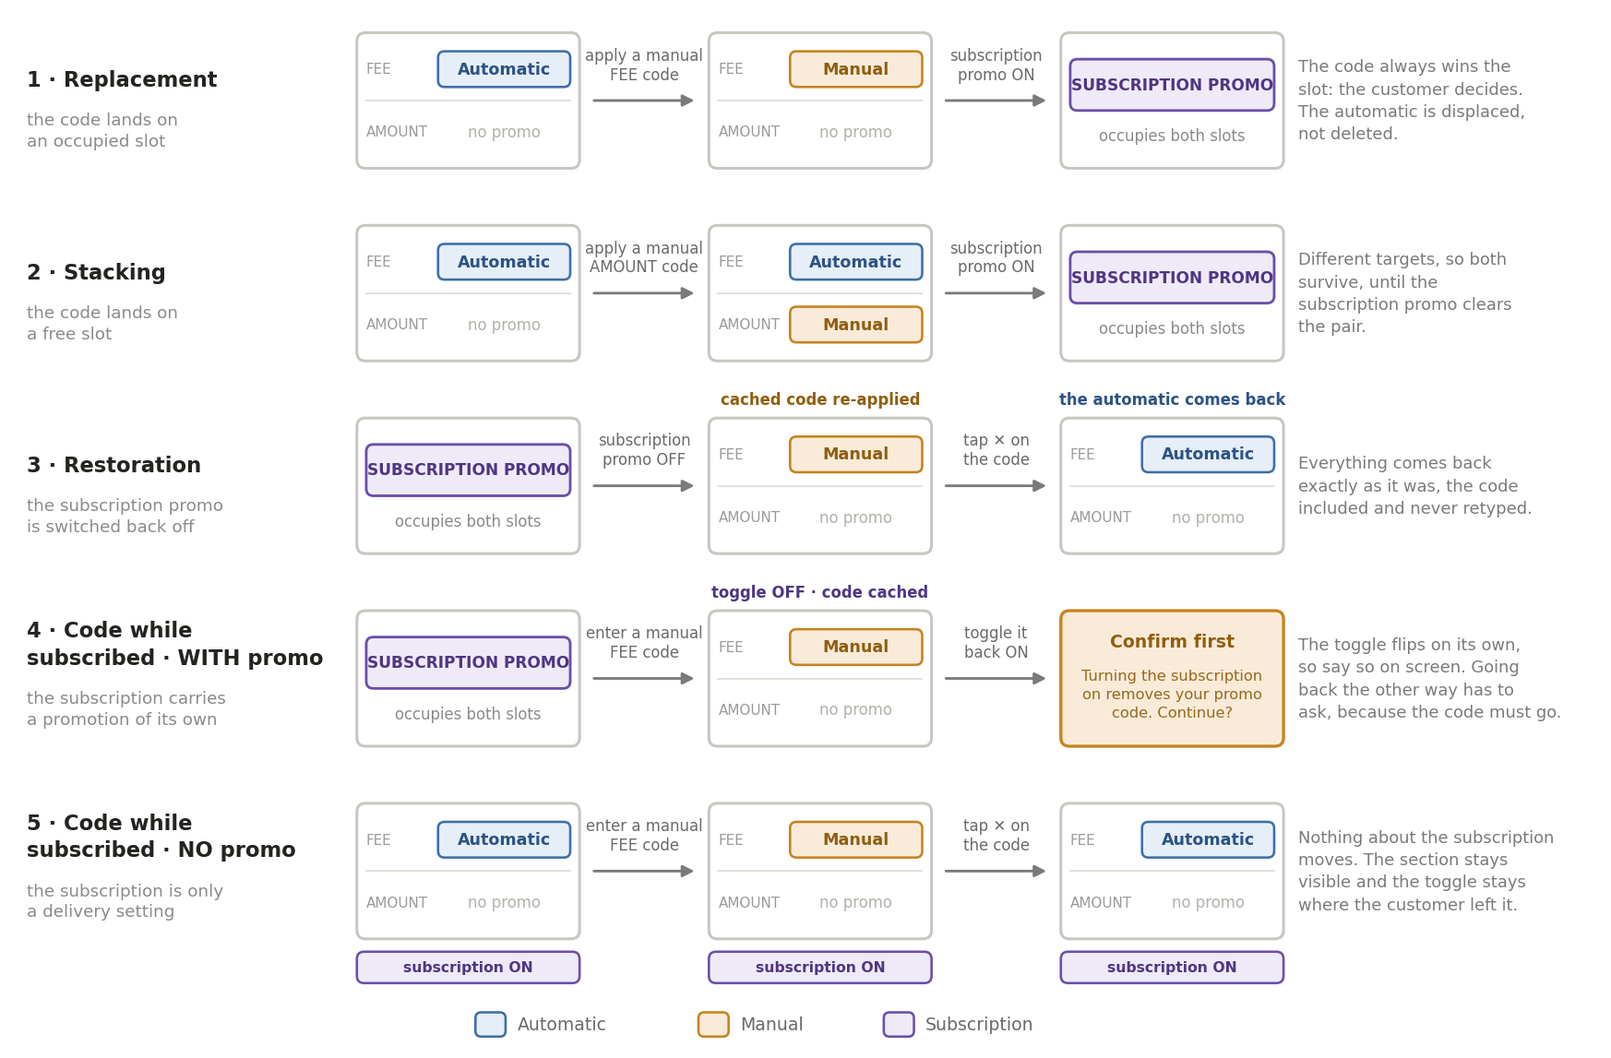
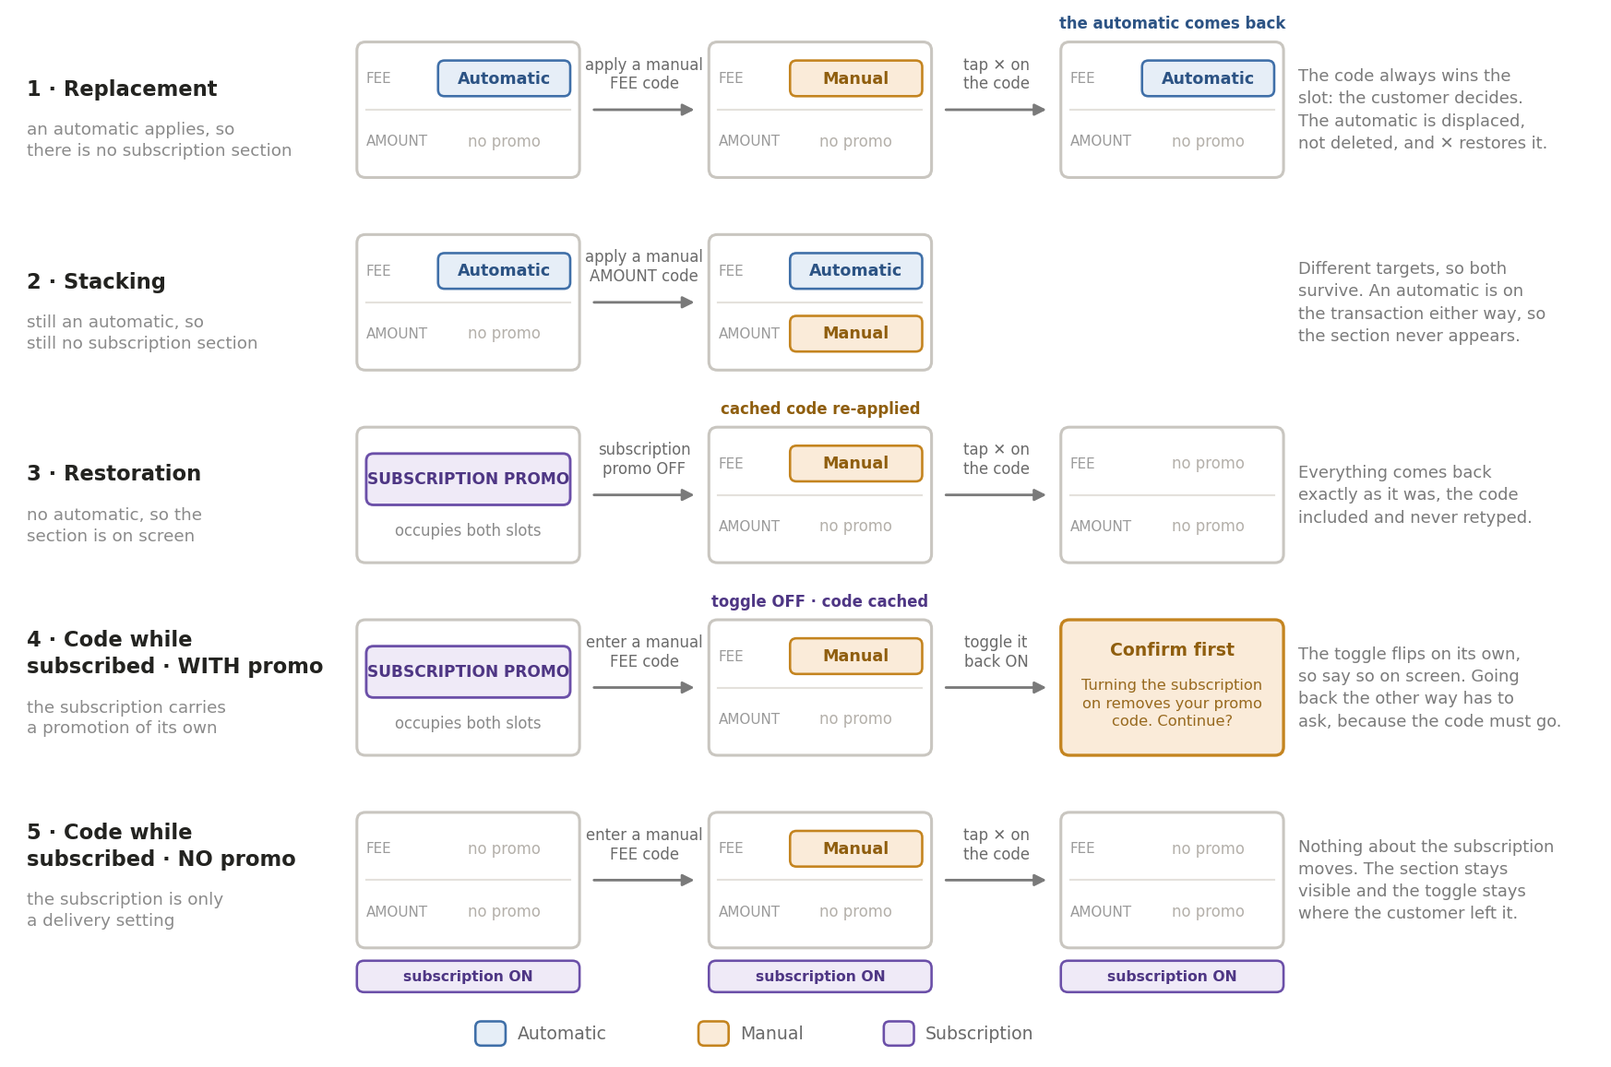
Gate the whole subscription section behind the instant automatic promo
Correction from Joao: the section is not "never hidden". An instant
automatic promotion on the transaction hides it outright, because the two
cannot stack and the automatic is the one we apply. Confirmed today that
this holds whether or not the subscription would have carried a promotion
of its own, and that the gate is evaluated once on load: displacing the
automatic with a manual code does not bring the section back.

That reaches further than a wording fix. State "A · Automatic only" could
never have reached the subscription state, so the state model now opens on
the gate and its two outcomes, and the states past it start from an empty
pair of slots rather than from an automatic. Journeys 1 and 2 lose their
"subscription promo ON" third step, which was unreachable, and instead
finish the automatic-versus-manual story with the ✕ restore. Journey 5
starts from no promotion rather than from an automatic.

In the matrix, automatic against subscription flips from "subscription
only" to "automatic wins", and subscription against an empty slot is a ✓
rather than a ✗, since nothing is being refused there.

diff --git a/generate_promo_interaction_diagrams.py b/generate_promo_interaction_diagrams.py
@@ -2,7 +2,8 @@
 """
 Two figures for the IMTU promotion-interaction reference (design team).
 
-  1. promo_interaction_states.png    - the three states and every transition
+  1. promo_interaction_states.png    - the gate, then three states and every
+                                       transition on the far side of it
   2. promo_interaction_journeys.png  - five worked journeys
 
 The mental model both figures encode: a transaction has exactly two promotion
@@ -12,6 +13,13 @@ two halves: one that carries its own promotion is not a slot-filler at all, it
 takes over the whole transaction and remembers what it displaced; one with no
 promotion attached is only a delivery setting and leaves both slots alone.
 
+Everything about the subscription sits behind a gate. An instant automatic
+promotion anywhere on the transaction hides the subscription section outright,
+because the two cannot stack and the automatic wins. The gate is evaluated
+once, when the transaction loads, so the section does not come back even when
+a manual code later displaces the automatic. Journeys 1 and 2 therefore live
+on the hidden side of the gate and never show a subscription at all.
+
 Product decisions of 31 Aug 2026 folded in:
   - one manual code per transaction (never two)
   - turning a subscription promotion off restores the previous state IN FULL,
@@ -20,12 +28,13 @@ Product decisions of 31 Aug 2026 folded in:
   - manual always outranks automatic, the customer decides, no warning
 
 Product decisions of 1 Sep 2026 (DCS-5299 comment thread) folded in:
-  - the subscription section is never hidden, only the toggle moves
+  - a manual code never hides the subscription section, only the toggle moves
   - with a subscription promotion, applying a manual code toggles the
     subscription OFF; removing the code returns the toggle to its previous
     state; toggling back ON asks for confirmation because the code must go
   - the manual code is cached, so restoring it never means retyping
   - with no subscription promotion, a manual code changes nothing at all
+  - an instant automatic hides the section entirely, decided once on load
 
 Colour language is fixed and must match the doc:
   Automatic = blue      Manual = amber      Subscription = violet
@@ -133,31 +142,70 @@ def statecard(ax, cx, cy, w, h, title, slots, foot, style):
             fontsize=7.2, color="#8A8A8A", zorder=5)
 
 
+def gatebox(ax, cx, cy, w, h, verdict, body, style):
+    ax.add_patch(FancyBboxPatch(
+        (cx - w / 2, cy - h / 2), w, h,
+        boxstyle="round,pad=0,rounding_size=0.14", linewidth=1.5,
+        facecolor=style["fill"], edgecolor=style["edge"], zorder=3))
+    ax.text(cx, cy + h / 2 - 0.40, verdict, ha="center", va="center",
+            fontsize=9.2, fontweight="bold", color=style["text"], zorder=5)
+    ax.text(cx, cy - 0.30, body, ha="center", va="center",
+            fontsize=7.6, color=style["text"], alpha=0.92, zorder=5,
+            linespacing=1.55)
+
+
 def fig_flow():
-    H = 12.2
+    H = 12.6
     fig, ax = canvas(H)
 
-    yt = 10.4                     # the two "normal" states sit on this line
+    # The gate decides whether any of this is on screen at all.
+    ax.text(XMAX / 2, 12.1,
+            "First, the gate: does an instant automatic promotion apply to this "
+            "transaction?",
+            ha="center", va="center", fontsize=10.2, fontweight="bold",
+            color="#232320", zorder=5)
+
+    gw, gy, gh = 9.9, 10.85, 2.15
+    gatebox(ax, 5.8, gy, gw, gh, "YES · no subscription section",
+            "The two cannot stack and the automatic wins, so the section\n"
+            "is not rendered. Decided once on load: nothing the customer\n"
+            "types afterwards brings it back. Manual codes still work on\n"
+            "the slots, and ✕ still restores the automatic.", RED)
+    gatebox(ax, 16.2, gy, gw, gh, "NO · the section is rendered",
+            "Everything below applies: the three states, the toggle,\n"
+            "and the promo-code interactions. No automatic is on the\n"
+            "transaction, so both slots start empty and the customer\n"
+            "can subscribe.", VIOLET)
+
+    yt = 8.0                      # the two "normal" states sit on this line
     ax_, bx = 5.6, 16.4
-    cw, ch = 6.8, 2.7
+    cw, ch = 6.8, 2.5
     a_bot = b_bot = yt - ch / 2
 
-    statecard(ax, ax_, yt, cw, ch, "A · Automatic only",
-              [("FEE", "Automatic", BLUE), ("AMOUNT", "Automatic", BLUE)],
-              "the default · either slot may be empty", BLUE)
+    # The NO branch lands on A: no automatic means both slots start empty.
+    ax.plot([11.25, 11.25], [gy - gh / 2, 9.55], color=ARROW, linewidth=1.2,
+            zorder=2)
+    ax.plot([11.25, ax_], [9.55, 9.55], color=ARROW, linewidth=1.2, zorder=2)
+    ax.add_patch(FancyArrowPatch(
+        (ax_, 9.55), (ax_, yt + ch / 2), arrowstyle="-|>", mutation_scale=11,
+        linewidth=1.2, color=ARROW, zorder=2))
+
+    statecard(ax, ax_, yt, cw, ch, "A · No promotion",
+              [("FEE", None, GRAY), ("AMOUNT", None, GRAY)],
+              "the default here · the subscription section is shown", GRAY)
 
     statecard(ax, bx, yt, cw, ch, "B · Manual code applied",
-              [("FEE", "Manual", AMBER), ("AMOUNT", "Automatic", BLUE)],
-              "the code takes one slot · the other keeps its automatic", AMBER)
+              [("FEE", "Manual", AMBER), ("AMOUNT", None, GRAY)],
+              "the code takes one slot · the other stays empty", AMBER)
 
     # A <-> B
-    arrow(ax, (ax_ + cw / 2, yt + 0.55), (bx - cw / 2, yt + 0.55),
-          label="enter a promo code", ldy=0.38)
-    arrow(ax, (bx - cw / 2, yt - 0.55), (ax_ + cw / 2, yt - 0.55),
-          label="tap ✕ to remove it,\nthe automatic returns", ldy=-0.52)
+    arrow(ax, (ax_ + cw / 2, yt + 0.50), (bx - cw / 2, yt + 0.50),
+          label="enter a promo code", ldy=0.36)
+    arrow(ax, (bx - cw / 2, yt - 0.50), (ax_ + cw / 2, yt - 0.50),
+          label="tap ✕ to remove it", ldy=-0.40)
 
     # C, spanning underneath both
-    cx_c, cy_c, cwc, chc = 10.4, 5.2, 12.6, 2.5
+    cx_c, cy_c, cwc, chc = 10.4, 3.0, 12.6, 2.5
     statecard(ax, cx_c, cy_c, cwc, chc, "C · Subscription promotion",
               [("SUBSCRIPTION PROMO", VIOLET)],
               "both slots cleared · the previous state is remembered", VIOLET)
@@ -169,22 +217,22 @@ def fig_flow():
           label="subscription ON\nask first: the code goes", lpos=0.46)
 
     # C -> whichever state was active, restored in full
-    ax.plot([cx_c, cx_c], [c_top, 7.95], color=ARROW, linewidth=1.2,
+    ax.plot([cx_c, cx_c], [c_top, 5.55], color=ARROW, linewidth=1.2,
             linestyle=(0, (4, 3)), zorder=2)
-    ax.plot([7.2, 14.8], [7.95, 7.95], color=ARROW, linewidth=1.2,
+    ax.plot([7.2, 14.8], [5.55, 5.55], color=ARROW, linewidth=1.2,
             linestyle=(0, (4, 3)), zorder=2)
     for x in (7.2, 14.8):
         ax.add_patch(FancyArrowPatch(
-            (x, 7.95), (x, a_bot), arrowstyle="-|>", mutation_scale=11,
+            (x, 5.55), (x, a_bot), arrowstyle="-|>", mutation_scale=11,
             linewidth=1.2, color=ARROW, zorder=2, linestyle=(0, (4, 3))))
-    ax.text(11.0, 8.52,
+    ax.text(11.0, 6.12,
             "subscription OFF, the remembered state returns in full,\n"
             "the cached manual code re-applied without retyping",
             ha="center", va="center", fontsize=7.8, color="#6A6A6A", zorder=5,
             bbox=dict(boxstyle="round,pad=0.22", fc="white", ec="none", alpha=0.95))
 
     # the special exit: a code typed while a subscription promotion is on
-    nx, ny, nw, nh = 19.4, 5.2, 4.6, 2.5
+    nx, ny, nw, nh = 19.4, 3.0, 4.6, 2.5
     ax.add_patch(FancyBboxPatch(
         (nx - nw / 2, ny - nh / 2), nw, nh,
         boxstyle="round,pad=0,rounding_size=0.14", linewidth=1.4,
@@ -199,28 +247,9 @@ def fig_flow():
     arrow(ax, (cx_c + cwc / 2, ny), (nx - nw / 2, ny))
     arrow(ax, (nx, ny + nh / 2), (nx, b_bot))
 
-    # the other half of the model: a subscription with nothing attached to it
-    sy, sh = 2.15, 1.9
-    ax.add_patch(FancyBboxPatch(
-        (0.6, sy - sh / 2), XMAX - 1.2, sh,
-        boxstyle="round,pad=0,rounding_size=0.16", linewidth=1.5,
-        facecolor=VIOLET["fill"], edgecolor=VIOLET["edge"], zorder=3))
-    ax.text(XMAX / 2, sy + 0.52, "When the subscription carries NO promotion",
-            ha="center", va="center", fontsize=9.6, fontweight="bold",
-            color=VIOLET["text"], zorder=5)
-    ax.text(XMAX / 2, sy - 0.28,
-            "The toggle is a delivery setting, not a promotion. It fills no slot, "
-            "so states A and B above are untouched by it.\n"
-            "Adding a promo code changes nothing about the subscription, and "
-            "removing the code changes nothing either.\n"
-            "The section is never hidden and the toggle never moves.",
-            ha="center", va="center", fontsize=7.6, color=VIOLET["text"],
-            alpha=0.92, zorder=5, linespacing=1.6)
-
-    legend_chips(ax, 0.42,
-                 "One promotion per target · two automatics may coexist when one is "
-                 "on Fee and the other on Amount · never two manual codes · "
-                 "the subscription section is never hidden.")
+    legend_chips(ax, 0.95,
+                 "A manual code never hides the section, it only moves the toggle · "
+                 "only an instant automatic hides it, and only at load time.")
     return fig
 
 
@@ -318,34 +347,33 @@ def fig_examples():
     def step(cy, xa, xb, label):
         arrow(ax, (xa + gap, cy), (xb - gap, cy), label=label, ldy=0.50, lsize=7.0)
 
-    # --- 1. replacement -----------------------------------------------------
-    rowlabel(ax, ra, "1 · Replacement", "the code lands on\nan occupied slot")
+    # --- 1 and 2 sit on the hidden side of the gate: an automatic applies ---
+    rowlabel(ax, ra, "1 · Replacement",
+             "an automatic applies, so\nthere is no subscription section")
     slotcard(ax, x1, ra, fee="auto")
     step(ra, x1, x2, "apply a manual\nFEE code")
     slotcard(ax, x2, ra, fee="manual")
-    step(ra, x2, x3, "subscription\npromo ON")
-    slotcard(ax, x3, ra, sub=True)
-    note(ax, ra, "The code always wins the\nslot: the customer decides.\nThe automatic is displaced,\nnot deleted.")
+    step(ra, x2, x3, "tap ✕ on\nthe code")
+    slotcard(ax, x3, ra, fee="auto", tag="the automatic comes back", tagcol=BLUE)
+    note(ax, ra, "The code always wins the\nslot: the customer decides.\nThe automatic is displaced,\nnot deleted, and ✕ restores it.")
 
-    # --- 2. stacking --------------------------------------------------------
-    rowlabel(ax, rb, "2 · Stacking", "the code lands on\na free slot")
+    rowlabel(ax, rb, "2 · Stacking",
+             "still an automatic, so\nstill no subscription section")
     slotcard(ax, x1, rb, fee="auto")
     step(rb, x1, x2, "apply a manual\nAMOUNT code")
     slotcard(ax, x2, rb, fee="auto", amount="manual")
-    step(rb, x2, x3, "subscription\npromo ON")
-    slotcard(ax, x3, rb, sub=True)
-    note(ax, rb, "Different targets, so both\nsurvive, until the\nsubscription promo clears\nthe pair.")
+    note(ax, rb, "Different targets, so both\nsurvive. An automatic is on\nthe transaction either way, so\nthe section never appears.")
 
-    # --- 3. restoration -----------------------------------------------------
-    rowlabel(ax, rc, "3 · Restoration", "the subscription promo\nis switched back off")
+    # --- 3 to 5 sit on the visible side: no automatic on the transaction -----
+    rowlabel(ax, rc, "3 · Restoration",
+             "no automatic, so the\nsection is on screen")
     slotcard(ax, x1, rc, sub=True)
     step(rc, x1, x2, "subscription\npromo OFF")
     slotcard(ax, x2, rc, fee="manual", tag="cached code re-applied", tagcol=AMBER)
     step(rc, x2, x3, "tap ✕ on\nthe code")
-    slotcard(ax, x3, rc, fee="auto", tag="the automatic comes back", tagcol=BLUE)
+    slotcard(ax, x3, rc)
     note(ax, rc, "Everything comes back\nexactly as it was, the code\nincluded and never retyped.")
 
-    # --- 4. code while subscribed, WITH a subscription promotion ------------
     rowlabel(ax, rd, "4 · Code while\nsubscribed · WITH promo",
              "the subscription carries\na promotion of its own")
     slotcard(ax, x1, rd, sub=True)
@@ -357,14 +385,13 @@ def fig_examples():
               "Turning the subscription\non removes your promo\ncode. Continue?")
     note(ax, rd, "The toggle flips on its own,\nso say so on screen. Going\nback the other way has to\nask, because the code must go.")
 
-    # --- 5. code while subscribed, WITHOUT a subscription promotion ---------
     rowlabel(ax, re, "5 · Code while\nsubscribed · NO promo",
              "the subscription is only\na delivery setting")
-    slotcard(ax, x1, re, fee="auto", sub_tag="subscription ON")
+    slotcard(ax, x1, re, sub_tag="subscription ON")
     step(re, x1, x2, "enter a manual\nFEE code")
     slotcard(ax, x2, re, fee="manual", sub_tag="subscription ON")
     step(re, x2, x3, "tap ✕ on\nthe code")
-    slotcard(ax, x3, re, fee="auto", sub_tag="subscription ON")
+    slotcard(ax, x3, re, sub_tag="subscription ON")
     note(ax, re, "Nothing about the subscription\nmoves. The section stays\nvisible and the toggle stays\nwhere the customer left it.")
 
     legend_chips(ax, 0.25)

diff --git a/create_promo_interaction_onepager.py b/create_promo_interaction_onepager.py
@@ -9,11 +9,13 @@ to (fee, top-up amount), and what the customer should see at every transition.
 Page 1 is the model, the rules, and the state diagram. Page 2 is the full
 combination matrix, five worked journeys, and the screen implications.
 
-A subscription is read in two halves throughout: one that carries its own
-promotion is exclusive and takes the whole transaction; one with no promotion
-attached is only a delivery setting and leaves both slots alone. That split,
-and the rule that the subscription section is never hidden, come from the
-DCS-5299 comment thread of 1 Sep 2026.
+Everything about the subscription sits behind a gate: an instant automatic
+promotion on the transaction hides the section outright, because the two
+cannot stack and the automatic wins. Past the gate, a subscription is read in
+two halves: one that carries its own promotion is exclusive and takes the
+whole transaction; one with no promotion attached is only a delivery setting
+and leaves both slots alone. Both come from the DCS-5299 comment thread of
+1 Sep 2026.
 
 Figures come from generate_promo_interaction_diagrams.py and are served from
 the public GitHub repo - the Docs API fetches image URIs server-side and IDT
@@ -60,13 +62,13 @@ IMAGES = {
 
 MATRIX = [
     ["Fee ↓  /  Amount →", "Automatic", "Manual", "Subscription promo", "None"],
-    ["Automatic", "✓  both apply", "✓  both apply", "✗  subscription only",
+    ["Automatic", "✓  both apply", "✓  both apply", "✗  automatic wins",
      "✓  fee only"],
     ["Manual", "✓  both apply", "✗  one code only", "✗  subscription only",
      "✓  fee only"],
-    ["Subscription promo", "✗  subscription only", "✗  subscription only", "N/A",
-     "✗  subscription only"],
-    ["None", "✓  amount only", "✓  amount only", "✗  subscription only",
+    ["Subscription promo", "✗  automatic wins", "✗  subscription only", "N/A",
+     "✓  subscription only"],
+    ["None", "✓  amount only", "✓  amount only", "✓  subscription only",
      "·  no promotion"],
 ]
 
@@ -93,22 +95,23 @@ BLOCKS = [
             "Joao Tanaka  ·  Context: DCS-2846, DCS-5299"),
 
     ("h2", "The model"),
-    ("p", "Every IMTU transaction has exactly two places a promotion can land: the "
-          "fee and the top-up amount. Think of them as two slots, each holding at "
-          "most one promotion. Three kinds of promotion compete for those slots, and "
-          "they are colour-coded the same way everywhere on this page."),
+    ("p", "Every IMTU transaction has two places a promotion can land: the fee and "
+          "the top-up amount. Two slots, each holding at most one promotion. Three "
+          "kinds of promotion compete for them, colour-coded the same way "
+          "throughout."),
     ("b", ("Instant automatic",
            "applied by the system the moment the customer qualifies, with no action "
-           "from them. Blue.")),
+           "from them. Blue. Its presence is what closes the gate on the "
+           "subscription section.")),
     ("b", ("Manual",
            "a promo code the customer types in. Amber. At most one per "
            "transaction.")),
     ("b", ("Subscription",
-           "attached to turning a one-off top-up into a recurring one. Violet. Read "
-           "it in two halves. A subscription that carries its own promotion is not a "
-           "slot-filler: it takes the whole transaction. A subscription with no "
-           "promotion attached is only a delivery setting and leaves both slots "
-           "alone.")),
+           "attached to turning a one-off top-up into a recurring one. Violet. "
+           "Offered only when no instant automatic applies. Read it in two halves: "
+           "one that carries its own promotion is not a slot-filler, it takes the "
+           "whole transaction; one with no promotion attached is only a delivery "
+           "setting and leaves both slots alone.")),
 
     ("h2", "The rules"),
     ("p", "Six rules cover every case. The first two describe how the slots work; "
@@ -124,21 +127,21 @@ BLOCKS = [
     ("b", ("Manual outranks automatic",
            "a code always takes the slot, even when the automatic it displaces was "
            "worth more. The customer decides, and we do not warn them off it.")),
+    ("b", ("An instant automatic hides the subscription section",
+           "the two cannot stack and the automatic wins, so the section is not "
+           "rendered at all. The gate is checked once when the transaction loads "
+           "and never revisited, so the section does not come back even if a manual "
+           "code later displaces the automatic. A promo code never hides the "
+           "section; at most it moves the toggle.")),
     ("b", ("A subscription promotion is exclusive, and fully reversible",
            "turning it on clears both slots and remembers what was there. Turning it "
            "off puts all of it back, the cached manual code included. A subscription "
            "with no promotion is exempt: the slots do not move.")),
-    ("b", ("The subscription section is never hidden",
-           "whatever the customer does with a promo code, the section stays on "
-           "screen. Only the toggle moves, and only when a subscription promotion is "
-           "in play.")),
 
-    ("h2", "The three states, and every way to move between them"),
-    ("p", "Three states, six transitions, and each transition is a moment the "
-          "customer sees something change. Two are not symmetrical: removing a code "
-          "with ✕ brings back the automatic underneath it, and typing a code while a "
-          "subscription promotion is on switches the subscription off on the "
-          "customer's behalf."),
+    ("h2", "The gate, and the three states beyond it"),
+    ("p", "An instant automatic ends the story early: no section, nothing to design. "
+          "On every other transaction there are three states and six transitions, "
+          "each one a moment the customer sees something change."),
     ("img", "states"),
 
     ("pagebreak", ""),
@@ -147,28 +150,32 @@ BLOCKS = [
     ("table", "MATRIX"),
     ("p", "Read a cell as one transaction holding both promotions: the row is what "
           "sits on the fee, the column what sits on the top-up amount. Subscription "
-          "here means one that carries a promotion; a subscription with no promotion "
-          "occupies no slot and so does not appear in this grid at all. Every "
-          "combination is decided, and nothing here is open."),
+          "here means one that carries a promotion. Where it meets an automatic the "
+          "automatic wins and the section never appears, which is why those cells "
+          "are not a subscription outcome."),
 
     ("h2", "Five journeys to design for"),
-    ("p", "The same two slots, tracked through each sequence of actions. Journeys 4 "
-          "and 5 are the pair to read closely: the customer does exactly the same "
-          "thing in both, and the outcome turns entirely on whether the subscription "
-          "carries a promotion of its own."),
+    ("p", "The same two slots, tracked through each sequence of actions. Journeys 1 "
+          "and 2 sit on the hidden side of the gate. Journeys 4 and 5 are the pair "
+          "to read closely: the customer does the same thing in both, and the "
+          "outcome turns on whether the subscription carries a promotion."),
     ("img", "journeys"),
 
     ("h2", "What this changes on screen"),
+    ("b", ("An instant automatic hides the section outright",
+           "decided when the transaction loads and never revisited, so nothing the "
+           "customer types afterwards brings it back.")),
+    ("b", ("A promo code never hides the section",
+           "the field stays live and the section stays on screen. At most the toggle "
+           "moves, and only when a subscription promotion is in play.")),
     ("b", ("The applied code needs an ✕",
            "it is the only route back to the automatic promotion it displaced, and "
            "the only way to undo a restore the customer did not want.")),
-    ("b", ("The promo-code field and the subscription section both stay visible",
-           "neither is ever disabled or hidden.")),
     ("b", ("A code applied against a subscription promotion flips the toggle off",
            "the customer did not ask for that, so the screen has to say it happened "
            "rather than let the toggle change quietly. Removing the code returns the "
-           "toggle to whatever state it was in before. With no subscription "
-           "promotion, the toggle does not move at all.")),
+           "toggle to whatever state it was in before, and with no subscription "
+           "promotion it does not move at all.")),
     ("b", ("Turning the toggle back on needs a yes/no confirmation",
            "it removes the manual code. Design owed on DCS-5299.")),
     ("b", ("The code is cached, and restoration must be legible",
